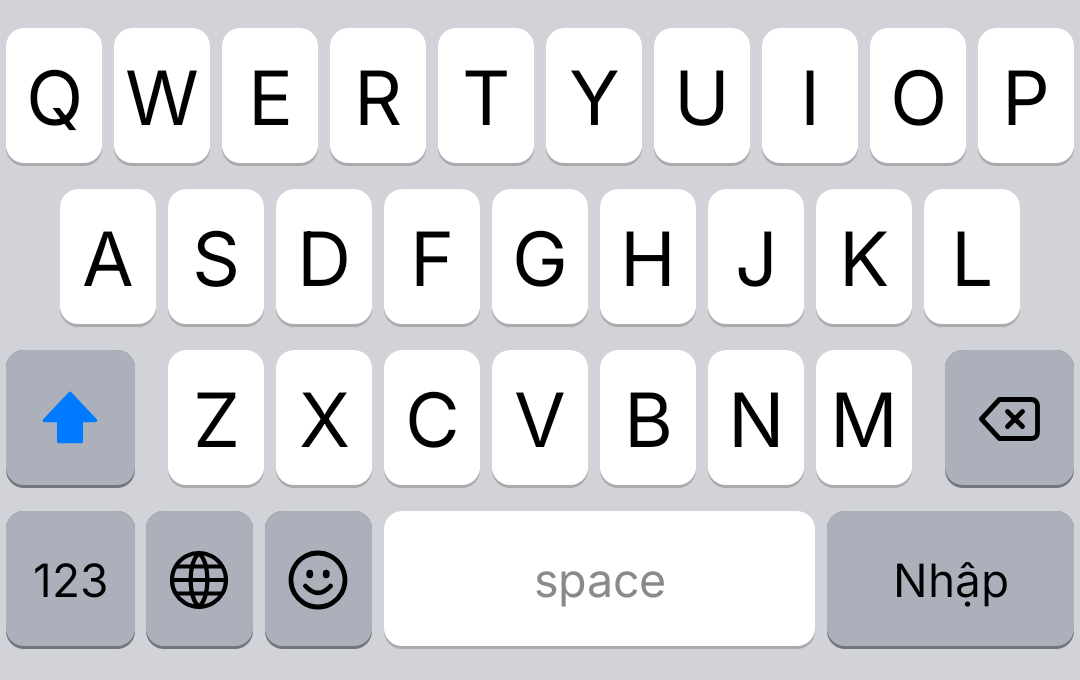
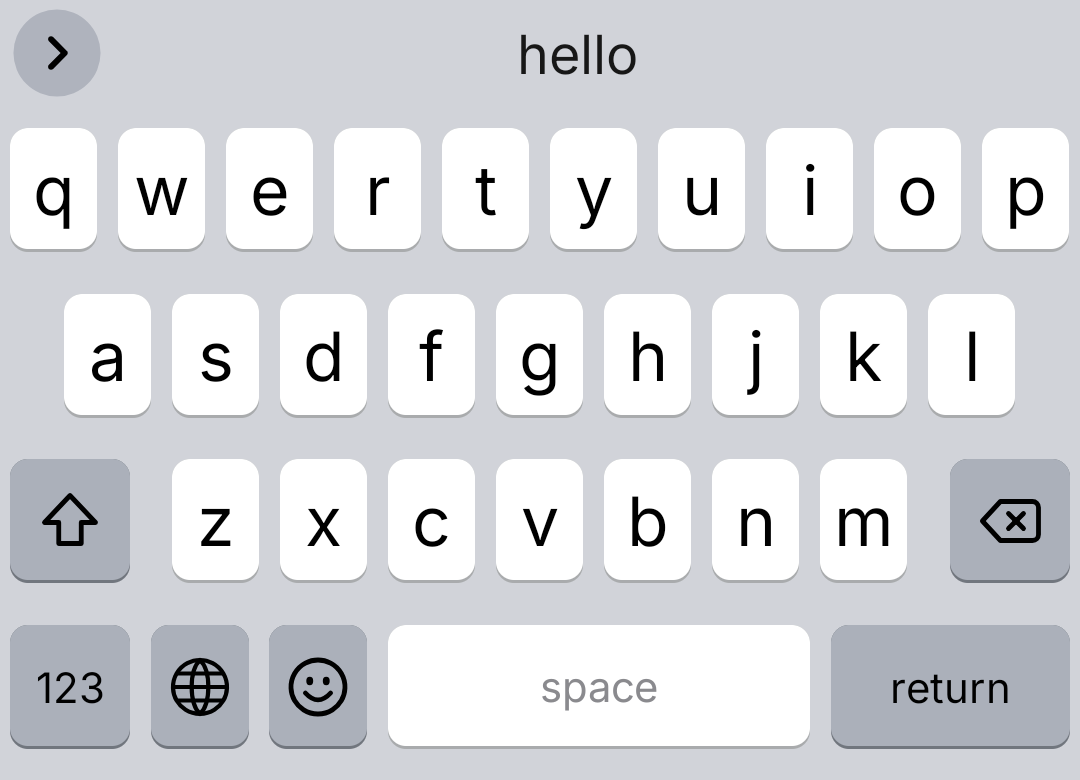
feat: default the interface to English with Vietnamese translation
- Move Unicode Keyboard strings to English and add values-vi translations
- Show space and return key labels in the system language (space/return, dấu cách/Nhập)
- Escape quotes around "Default 2" so they are displayed
- Rewrite README in English with new English screenshots (keyboard, symbols, Telex, Unicode mode, settings)

diff --git a/app/src/main/java/helium314/keyboard/keyboard/internal/keyboard_parser/floris/KeyLabel.kt b/app/src/main/java/helium314/keyboard/keyboard/internal/keyboard_parser/floris/KeyLabel.kt
@@ -6,6 +6,7 @@ import helium314.keyboard.keyboard.internal.KeyboardCodesSet
 import helium314.keyboard.keyboard.internal.KeyboardIconsSet
 import helium314.keyboard.keyboard.internal.KeyboardParams
 import helium314.keyboard.keyboard.internal.keyboard_parser.floris.KeyData.Companion.replaceIconWithLabelIfNoDrawable
+import helium314.keyboard.latin.R
 import helium314.keyboard.latin.settings.Settings
 import helium314.keyboard.latin.utils.InputTypeUtils
 import helium314.keyboard.latin.utils.ToolbarKey
@@ -28,6 +29,7 @@ object KeyLabel {
     const val PERIOD = "period"
     const val COMMA = "comma"
     const val SPACE = "space"
+    const val IOS_RETURN = "ios_return"
     const val ZWNJ = "zwnj"
     const val CURRENCY = "$$$"
     const val CURRENCY1 = "$$$1"
@@ -104,6 +106,7 @@ object KeyLabel {
             PERIOD -> getPeriodLabel(params)
             SPACE -> getSpaceLabel(params)
             ACTION -> "${getActionKeyLabel(params)}|${getActionKeyCode(params)}"
+            IOS_RETURN -> Settings.getCurrentContext()?.getString(R.string.return_label) ?: "return"
             DELETE -> "!icon/delete_key|!code/key_delete"
             SHIFT -> "${getShiftLabel(params)}|!code/key_shift"
             COM -> params.mLocaleKeyboardInfos.tlds.first()

diff --git a/app/src/main/java/helium314/keyboard/keyboard/MainKeyboardView.java b/app/src/main/java/helium314/keyboard/keyboard/MainKeyboardView.java
@@ -817,8 +817,7 @@ public final class MainKeyboardView extends KeyboardView implements DrawingProxy
         if (!customText.isEmpty()) {
             spaceText = customText;
         } else {
-            spaceText = getContext().getString("vi".equals(keyboard.mId.getSubtype().getLocale().getLanguage())
-                    ? R.string.space_label_vi : R.string.space_label_en);
+            spaceText = getContext().getString(R.string.space_label);
         }
         paint.setTypeface(KeyboardTypeface.resolve(spaceText, Typeface.DEFAULT));
         // Draw language text with shadow

diff --git a/README.md b/README.md
@@ -1,86 +1,115 @@
 <p align="center">
-  <img src="unicode_keyboard_icon_512.png" alt="Unicode Keyboard icon" width="128">
+  <img src="unicode_keyboard_icon_512.png" alt="Unicode Keyboard icon" width="120">
 </p>
 
-# Unicode Keyboard
-
-An iOS-style Android keyboard for Vietnamese and English, with built-in Telex typing, a look-alike
-"Unicode" character mode and offline English ↔ Vietnamese translation.
-
-It is a fork of [HeliBoard](https://github.com/HeliBorg/HeliBoard) (itself based on AOSP / OpenBoard) and the
-successor of the CMkey keyboard.
+<h1 align="center">Unicode Keyboard</h1>
 
 <p align="center">
-  <img src="docs/screenshots/keyboard_vi.png" alt="Vietnamese keyboard" width="45%">
-  <img src="docs/screenshots/keyboard_en.png" alt="English keyboard" width="45%">
+  An iOS-style Android keyboard for English and Vietnamese, with Telex typing,<br>
+  a look-alike Unicode character mode and offline English ↔ Vietnamese translation.
+</p>
+
+<p align="center">
+  <a href="https://github.com/hieuday88/UnicodeKeyboard/releases/latest"><b>Download the latest APK</b></a>
+</p>
+
+<p align="center">
+  <img src="docs/screenshots/keyboard_en.png" alt="English keyboard" width="48%">
+  <img src="docs/screenshots/symbols.png" alt="Numbers and symbols" width="48%">
 </p>
 
 ## Features
 
+### iOS look and feel
+- iOS layouts: `123 · 🌐 · 😀 · space · return` bottom row, iOS-style 123 and #+= pages
+- iOS light and dark themes that follow the system, rounded keys with a subtle bottom shadow
+- iOS-like icons (shift, caps lock, delete, emoji, globe) drawn from scratch, and the Inter font
+- Key pop-up preview, haptic feedback, double-space period, auto-capitalization
+- Long-press for accents (`a` → `à á ả ã ạ ă â …`), swipe on space to move the cursor,
+  swipe on delete to select text
+- The interface is in English by default and follows the phone language
+  (a Vietnamese translation is included)
+
 ### Vietnamese Telex
-- "Tiếng Việt (Telex)" layout: `tieengs vieetj` → `tiếng việt`, `dduwowcj` → `được`, `nguwowif` → `người`
-- Double a tone or hook key to undo it (`ass` → `as`, `caaa` → `caa`)
-- Tone placement option: new style (`hoà`, `thuỷ`) or old style (`hòa`, `thủy`)
-- Automatically disabled in password, email and URL fields
-- Vietnamese and English layouts are enabled by default; switch with the 🌐 key
+
+<img src="docs/screenshots/telex.png" alt="Telex typing" width="48%" align="right">
+
+- Built-in **Vietnamese (Telex)** layout; English and Vietnamese are enabled by default,
+  switch with the 🌐 key
+- `tieengs vieetj` → `tiếng việt`, `dduwowcj` → `được`, `nguwowif` → `người`
+- Repeat a key to undo it: `ass` → `as`, `caaa` → `caa`
+- Choose the tone placement: new style (`hoà`, `thuỷ`) or old style (`hòa`, `thủy`)
+- Automatically turned off in password, email and URL fields
+
+<br clear="right">
 
 ### Unicode mode
-- Replaces letters and digits with look-alike Unicode characters while you type
-  (`hello` → `ҥϵℓℓσ`), handy for game names and chats
-- Toggle with the ⚡ button on the toolbar (off by default); auto-correction is paused while it is on
-- Per-character customization with a catalog of variants for every letter, a free-text override,
-  a "Default 2" preset (small caps) and a reset button
+
+<img src="docs/screenshots/unicode_mode.png" alt="Unicode mode" width="48%" align="right">
+
+- Types look-alike Unicode characters instead of letters and digits:
+  `hello world` → `Ңϵℓℓσ Ԝσʀℓᑯ`
+- Toggle it with the ⚡ button on the toolbar (off by default);
+  auto-correction is paused while it is on
+- Customize every character: pick from a catalog of variants, enter any text,
+  load the "Default 2" preset (small caps) or reset to defaults
+
+<br clear="right">
 
 ### Offline translation
-- 文A button on the toolbar translates the selection, or all text before the cursor, and replaces it
-- Direction is detected automatically: text with Vietnamese letters is translated to English,
+- The 文A button on the toolbar translates the selected text, or all text before the cursor, and replaces it
+- The direction is detected automatically: text with Vietnamese letters is translated to English,
   anything else to Vietnamese
-- Uses on-device Google ML Kit models (~30 MB, downloaded on first use; manage them in settings)
-
-### iOS look and feel
-- iOS layouts: `123 · 🌐 · 😀 · space · return` bottom row, iOS 123 and #+= symbol pages
-- iOS light and dark themes that follow the system, rounded keys with a bottom shadow
-- Self-drawn iOS-like icons (shift, caps lock, delete, emoji, globe) and the Inter font
-- Space label "dấu cách" / "space" depending on the layout, "Nhập" return key
-- Key pop-up preview, haptic feedback, double-space period, auto-capitalization,
-  long-press accents (`a` → `à á ả ã ạ ă â…`), swipe on space to move the cursor, swipe on delete to select
+- Runs on the device with Google ML Kit; the models (~30 MB) are downloaded on first use
+  and can be removed in settings
 
 ### Inherited from HeliBoard
-Suggestions and auto-correction with dictionaries, clipboard history, emoji palette, one-handed and split
-modes, custom layouts and colors, backup and restore, no ads and no tracking.
+Word suggestions and auto-correction, clipboard history, emoji palette, one-handed and split modes,
+custom layouts and colors, backup and restore. No ads, no tracking.
 
-<p align="center">
-  <img src="docs/screenshots/settings.png" alt="Settings" width="70%">
-</p>
+## Installation
+
+1. Download `UnicodeKeyboard_<version>-release.apk` from the [releases page](https://github.com/hieuday88/UnicodeKeyboard/releases)
+   and install it (Android 5.0 or newer).
+2. Open **Unicode Keyboard** and follow the setup steps to enable it and select it as your keyboard.
+3. Add or remove languages under **Languages & Layouts**.
 
 ## Settings
 
-Open the app (or ⚙ on the keyboard toolbar) → **Unicode Keyboard**:
+<p align="center">
+  <img src="docs/screenshots/settings.png" alt="Settings" width="80%">
+</p>
+
+Open the app, or tap ⚙ on the keyboard toolbar, then **Unicode Keyboard**:
 
 | Setting | Description |
 |---|---|
 | Unicode mode | Same as the ⚡ toolbar button |
 | Old tone style | `hòa` instead of `hoà` |
 | Translate EN ↔ VI | Download or delete the offline translation models |
-| Unicode character customization | Pick a variant for each character, load "Default 2" or reset |
+| Unicode character customization | Choose a replacement for each character, load "Default 2" or reset |
 
-A custom font (for example a font you own) can be selected under **Appearance → Custom font**.
+The toolbar (the `>` button above the keys) holds Unicode mode, translation, clipboard, settings,
+undo/redo and text editing shortcuts. Its content can be changed under **Toolbar**.
 
-## Build
+A different font can be used under **Appearance → Custom font**.
 
-Requirements: JDK 17+ (the JBR bundled with Android Studio works) and the Android SDK
-(compileSdk 37, NDK 28 — Gradle downloads missing components).
+## Building from source
+
+Requirements: JDK 17 or newer (the JBR bundled with Android Studio works) and the Android SDK.
+Gradle downloads the missing SDK platform (compileSdk 37) and NDK automatically.
 
 ```sh
-./gradlew assembleDebugNoMinify   # fast debug build
+./gradlew assembleDebugNoMinify   # quick debug build
 ./gradlew assembleRelease         # minified release build
-./gradlew testDebugUnitTest --tests "helium314.keyboard.unicode.*"
+./gradlew testDebugUnitTest --tests "helium314.keyboard.unicode.*"   # Telex tests
 ```
 
-APKs are written to `app/build/outputs/apk/<variant>/UnicodeKeyboard_<version>-<variant>.apk`.
+The APKs are written to `app/build/outputs/apk/<variant>/UnicodeKeyboard_<version>-<variant>.apk`.
 
-### Release signing
-`assembleRelease` signs the APK when `../signing/keystore.properties` exists next to the repository folder:
+### Signing release builds
+`assembleRelease` signs the APK when a `signing/keystore.properties` file exists **next to** the repository folder
+(`../signing/keystore.properties`):
 
 ```properties
 storeFile=unicode-keyboard-release.jks
@@ -89,22 +118,23 @@ keyAlias=unicodekeyboard
 keyPassword=...
 ```
 
-Keep the keystore out of the repository and back it up: updates must be signed with the same key.
+Never commit the keystore, and keep a backup: every update must be signed with the same key.
 
-## Project layout
+## Project structure
 
 | Path | Content |
 |---|---|
 | `app/src/main/java/helium314/keyboard/unicode/` | Telex engine, Unicode mode engine, character catalog, translator |
-| `app/src/main/java/helium314/keyboard/event/TelexCombiner.kt` | Hooks Telex into the input pipeline |
+| `app/src/main/java/helium314/keyboard/event/TelexCombiner.kt` | Connects Telex to the input pipeline |
 | `app/src/main/java/helium314/keyboard/settings/screens/UnicodeKeyboardScreen.kt` | Unicode Keyboard settings screen |
-| `app/src/main/assets/layouts/` | iOS-style functional and symbol layouts |
+| `app/src/main/assets/layouts/` | iOS-style bottom row and symbol layouts |
+| `app/src/main/res/values/unicode_keyboard_strings.xml` | English strings (Vietnamese in `values-vi/`) |
 | `app/src/test/java/helium314/keyboard/unicode/` | Telex unit tests |
 
 ## License
 
-Unicode Keyboard is licensed under the [GNU General Public License v3.0](LICENSE), like HeliBoard.
-Parts inherited from AOSP are under the [Apache License 2.0](LICENSE-Apache-2.0).
+Unicode Keyboard is released under the [GNU General Public License v3.0](LICENSE), like HeliBoard.
+Code inherited from AOSP is licensed under the [Apache License 2.0](LICENSE-Apache-2.0).
 
 The bundled [Inter](https://github.com/rsms/inter) font is licensed under the
 [SIL Open Font License 1.1](INTER_FONT_LICENSE.txt).
@@ -112,6 +142,7 @@ Apple's SF fonts and SF Symbols are **not** included; the iOS-like icons are ori
 
 ## Credits
 
-- [HeliBoard](https://github.com/HeliBorg/HeliBoard) and its contributors, [OpenBoard](https://github.com/openboard-team/openboard) and AOSP
+- [HeliBoard](https://github.com/HeliBorg/HeliBoard) and its contributors,
+  [OpenBoard](https://github.com/openboard-team/openboard) and the AOSP keyboard
 - [Inter](https://rsms.me/inter/) by Rasmus Andersson
 - [Google ML Kit](https://developers.google.com/ml-kit/language/translation) for on-device translation
